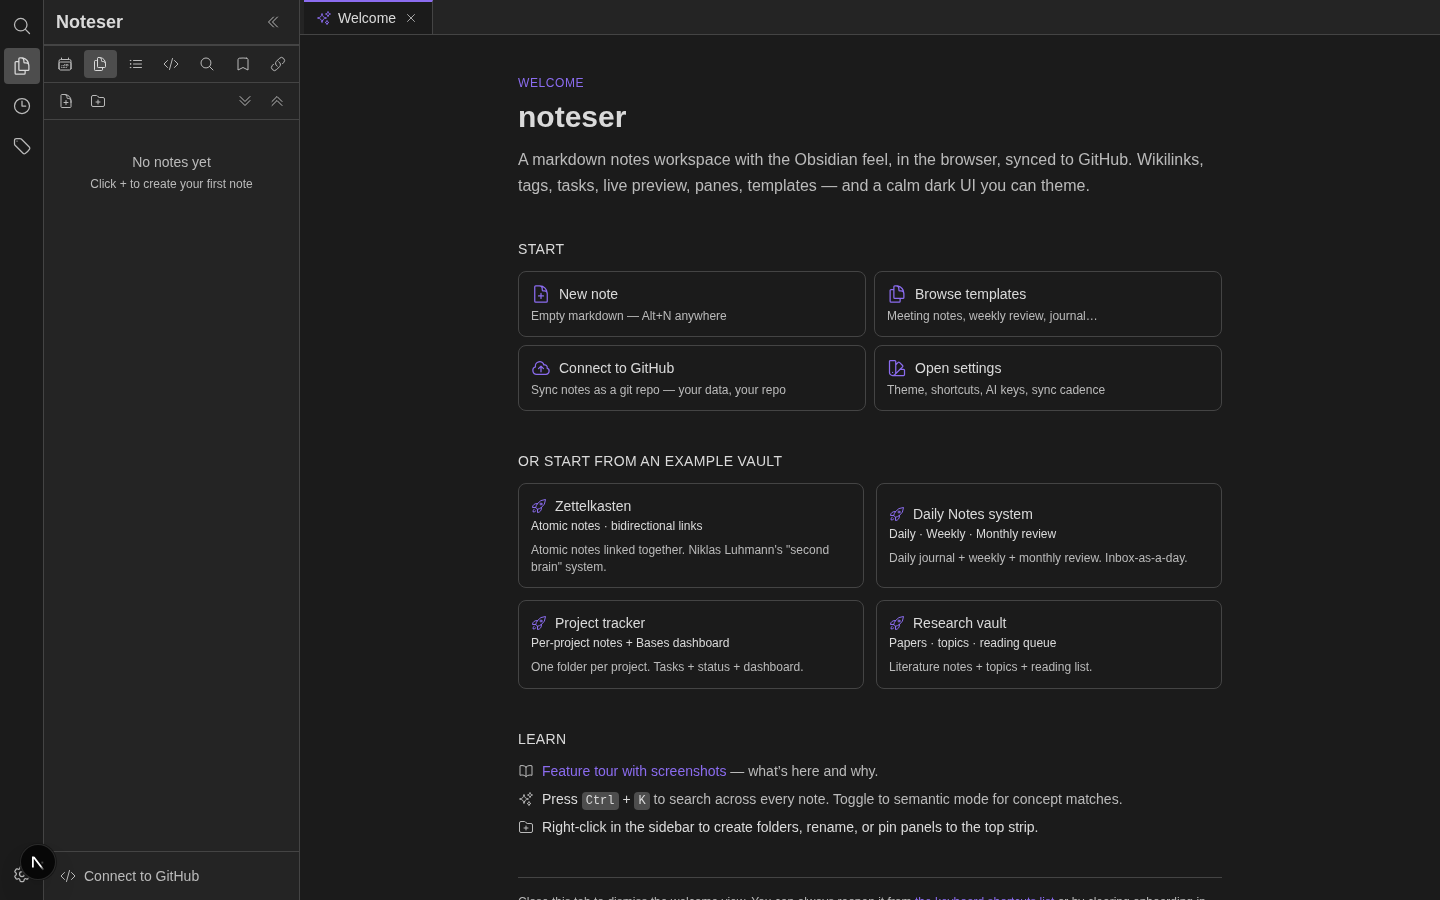
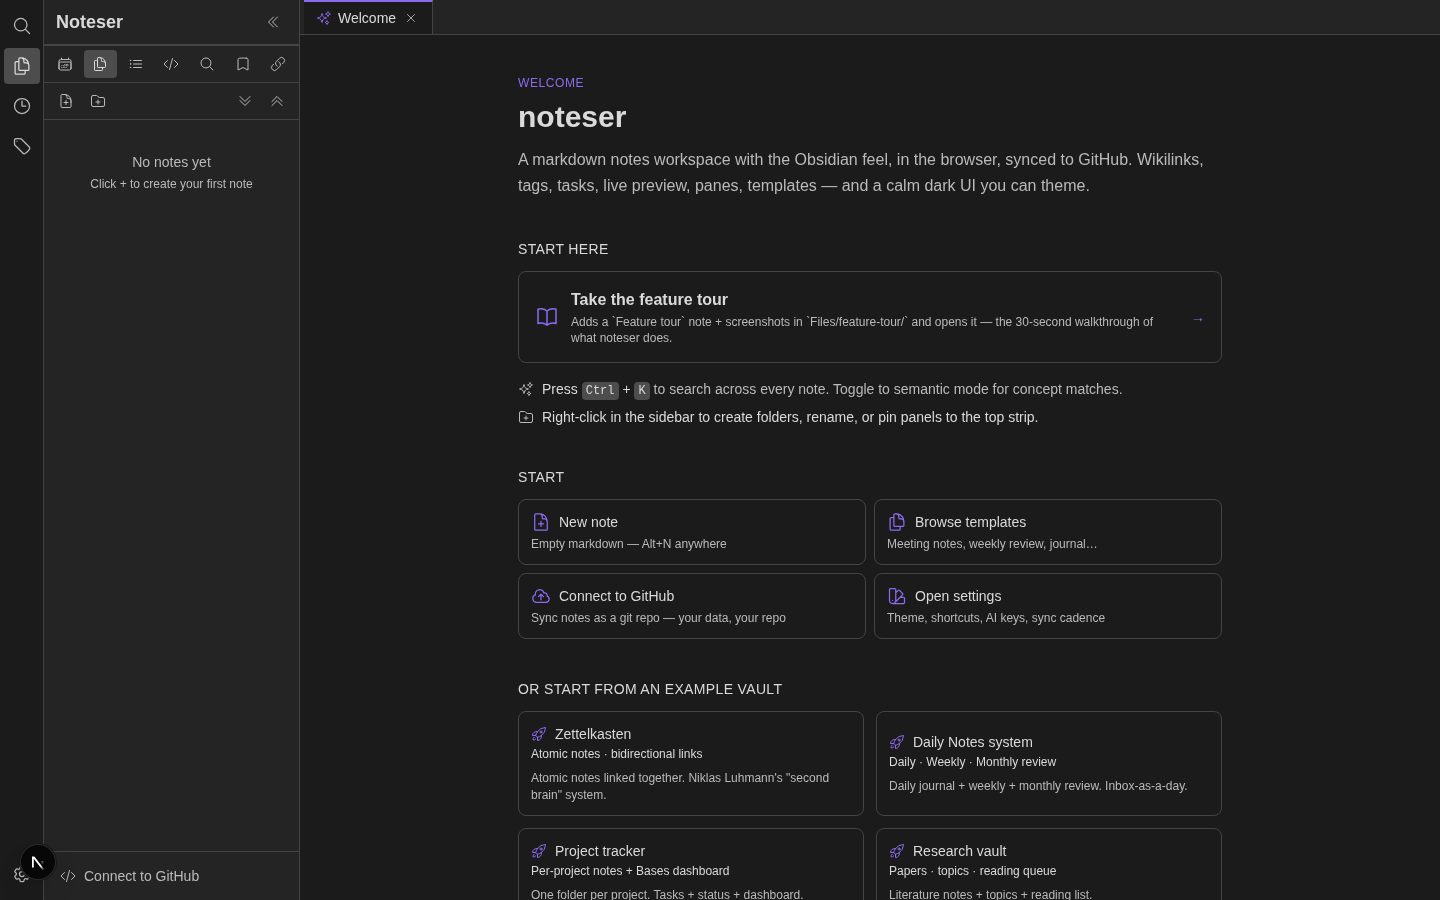
Welcome: lead with "Start here" + Feature tour as hero card
User feedback: first-time visitors weren't seeing the Feature tour
clearly — it lived in the Learn section, all the way at the bottom of
the page, as a small text link sandwiched between starter-vault tiles
and the dismissal hint. By the time you scrolled there you'd already
been distracted by the Start grid + the four example-vault cards.

Restructured:

  1. Hero (unchanged)
  2. "Start here" — the new primary section. Contains:
     - <FeatureTourCard> — full-width tinted card with the book icon,
       "Take the feature tour" headline, a one-sentence hint about
       what it does, and an arrow affordance. Stands out visually
       against the surrounding plain cards.
     - Ctrl+K shortcut hint + sidebar right-click hint as small
       bullets underneath (the old Learn items, kept).
  3. Start grid (New note / Templates / GitHub / Settings) — moved
     down. Power users still find it; first-timers see the tour first.
  4. Starter vaults — unchanged position.
  5. Recent notes (when any) — unchanged.

The old <FeatureTourButton> (inline link styling) was renamed to
<FeatureTourCard> with full button-card chrome. Same async behavior:
"Seeding tour…" disabled state during the ~1-2s seed.

Removed the trailing "Close this tab to dismiss…" paragraph (was
redundant with the close × on the tab itself and added vertical noise
below the fold).

Refreshed docs/images/00-welcome.png to match the new layout.

Changed region(s): [[0.3438, 0.8089, 0.8438, 1.0], [0.3438, 0.4978, 0.8438, 0.7778], [0.3438, 0.3111, 0.8438, 0.4667]]

diff --git a/src/components/editor/WelcomePane.tsx b/src/components/editor/WelcomePane.tsx
@@ -88,6 +88,35 @@ export const WelcomePane = ({ tabId }: { tabId: string }) => {
           </p>
         </div>
 
+        {/* Learn — moved to the top so a first-time user lands directly
+            on "click here to see what this app can do." The Feature
+            tour is the visual centerpiece (full-width call-to-action
+            card); the keyboard + sidebar tips are smaller bullets
+            underneath for ambient discovery. */}
+        <section aria-labelledby="welcome-learn">
+          <h2 id="welcome-learn" className="text-sm font-medium text-obsidianText/90 uppercase tracking-wide mb-3">
+            Start here
+          </h2>
+          <FeatureTourCard onSeeded={() => closeTab(tabId)} />
+          <ul className="mt-4 space-y-2 text-sm">
+            <li className="flex items-start gap-2">
+              <SparklesIcon className="w-4 h-4 mt-0.5 text-obsidianSecondaryText" />
+              <span className="text-obsidianText">
+                Press <kbd className="px-1 py-0.5 text-xs rounded bg-obsidianHighlight text-obsidianText">Ctrl</kbd>
+                {' + '}
+                <kbd className="px-1 py-0.5 text-xs rounded bg-obsidianHighlight text-obsidianText">K</kbd>
+                <span className="text-obsidianSecondaryText"> to search across every note. Toggle to semantic mode for concept matches.</span>
+              </span>
+            </li>
+            <li className="flex items-start gap-2">
+              <FolderPlusIcon className="w-4 h-4 mt-0.5 text-obsidianSecondaryText" />
+              <span className="text-obsidianText">
+                Right-click in the sidebar to create folders, rename, or pin panels to the top strip.
+              </span>
+            </li>
+          </ul>
+        </section>
+
         {/* Start */}
         <section aria-labelledby="welcome-start">
           <h2 id="welcome-start" className="text-sm font-medium text-obsidianText/90 uppercase tracking-wide mb-3">
@@ -178,37 +207,6 @@ export const WelcomePane = ({ tabId }: { tabId: string }) => {
           </section>
         )}
 
-        {/* Learn */}
-        <section aria-labelledby="welcome-learn">
-          <h2 id="welcome-learn" className="text-sm font-medium text-obsidianText/90 uppercase tracking-wide mb-3">
-            Learn
-          </h2>
-          <ul className="space-y-2 text-sm">
-            <li className="flex items-start gap-2">
-              <BookOpenIcon className="w-4 h-4 mt-0.5 text-obsidianSecondaryText" />
-              <span className="text-obsidianText">
-                <FeatureTourButton onSeeded={() => closeTab(tabId)} />
-                <span className="text-obsidianSecondaryText"> — seeds a Tutorial folder in your vault with the note + screenshots.</span>
-              </span>
-            </li>
-            <li className="flex items-start gap-2">
-              <SparklesIcon className="w-4 h-4 mt-0.5 text-obsidianSecondaryText" />
-              <span className="text-obsidianText">
-                Press <kbd className="px-1 py-0.5 text-xs rounded bg-obsidianHighlight text-obsidianText">Ctrl</kbd>
-                {' + '}
-                <kbd className="px-1 py-0.5 text-xs rounded bg-obsidianHighlight text-obsidianText">K</kbd>
-                <span className="text-obsidianSecondaryText"> to search across every note. Toggle to semantic mode for concept matches.</span>
-              </span>
-            </li>
-            <li className="flex items-start gap-2">
-              <FolderPlusIcon className="w-4 h-4 mt-0.5 text-obsidianSecondaryText" />
-              <span className="text-obsidianText">
-                Right-click in the sidebar to create folders, rename, or pin panels to the top strip.
-              </span>
-            </li>
-          </ul>
-        </section>
-
         <div className="pt-4 border-t border-obsidianBorder text-xs text-obsidianSecondaryText">
           Close this tab to dismiss the welcome view. You can always reopen it from
           {' '}<button
@@ -248,10 +246,12 @@ const WelcomeAction = ({ icon, label, hint, onClick, testId }: WelcomeActionProp
   </button>
 )
 
-// Async-aware button: shows a "Seeding…" label while the tour seeds
-// (~1-2s on first click for the parallel PNG fetches), then closes
-// the Welcome tab so the note becomes the active view.
-const FeatureTourButton = ({ onSeeded }: { onSeeded: () => void }) => {
+// Full-width call-to-action card for the Feature tour. Sits at the top
+// of the welcome view so a first-time user immediately sees "click here
+// to see what this app can do." Async-aware: shows a "Seeding…" state
+// while the 9 PNGs land in IndexedDB (~1-2s), then closes the Welcome
+// tab so the seeded note becomes the active view.
+const FeatureTourCard = ({ onSeeded }: { onSeeded: () => void }) => {
   const [busy, setBusy] = useState(false)
   const handleClick = async () => {
     if (busy) return
@@ -269,9 +269,20 @@ const FeatureTourButton = ({ onSeeded }: { onSeeded: () => void }) => {
       onClick={handleClick}
       disabled={busy}
       data-testid="welcome-feature-tour"
-      className="text-obsidianAccentPurple hover:underline disabled:opacity-60 disabled:cursor-progress"
+      className="w-full text-left p-4 rounded-lg border border-obsidianAccentPurple/40 bg-obsidianAccentPurple/10 hover:bg-obsidianAccentPurple/20 hover:border-obsidianAccentPurple transition-colors disabled:opacity-60 disabled:cursor-progress"
     >
-      {busy ? 'Seeding tour…' : 'Feature tour with screenshots'}
+      <div className="flex items-center gap-3">
+        <BookOpenIcon className="w-6 h-6 text-obsidianAccentPurple flex-shrink-0" />
+        <div className="flex-1 min-w-0">
+          <div className="text-base font-semibold text-obsidianText">
+            {busy ? 'Seeding tour…' : 'Take the feature tour'}
+          </div>
+          <div className="text-xs text-obsidianSecondaryText mt-0.5">
+            Adds a `Feature tour` note + screenshots in `Files/feature-tour/` and opens it — the 30-second walkthrough of what noteser does.
+          </div>
+        </div>
+        {!busy && <span className="text-obsidianAccentPurple text-sm">→</span>}
+      </div>
     </button>
   )
 }